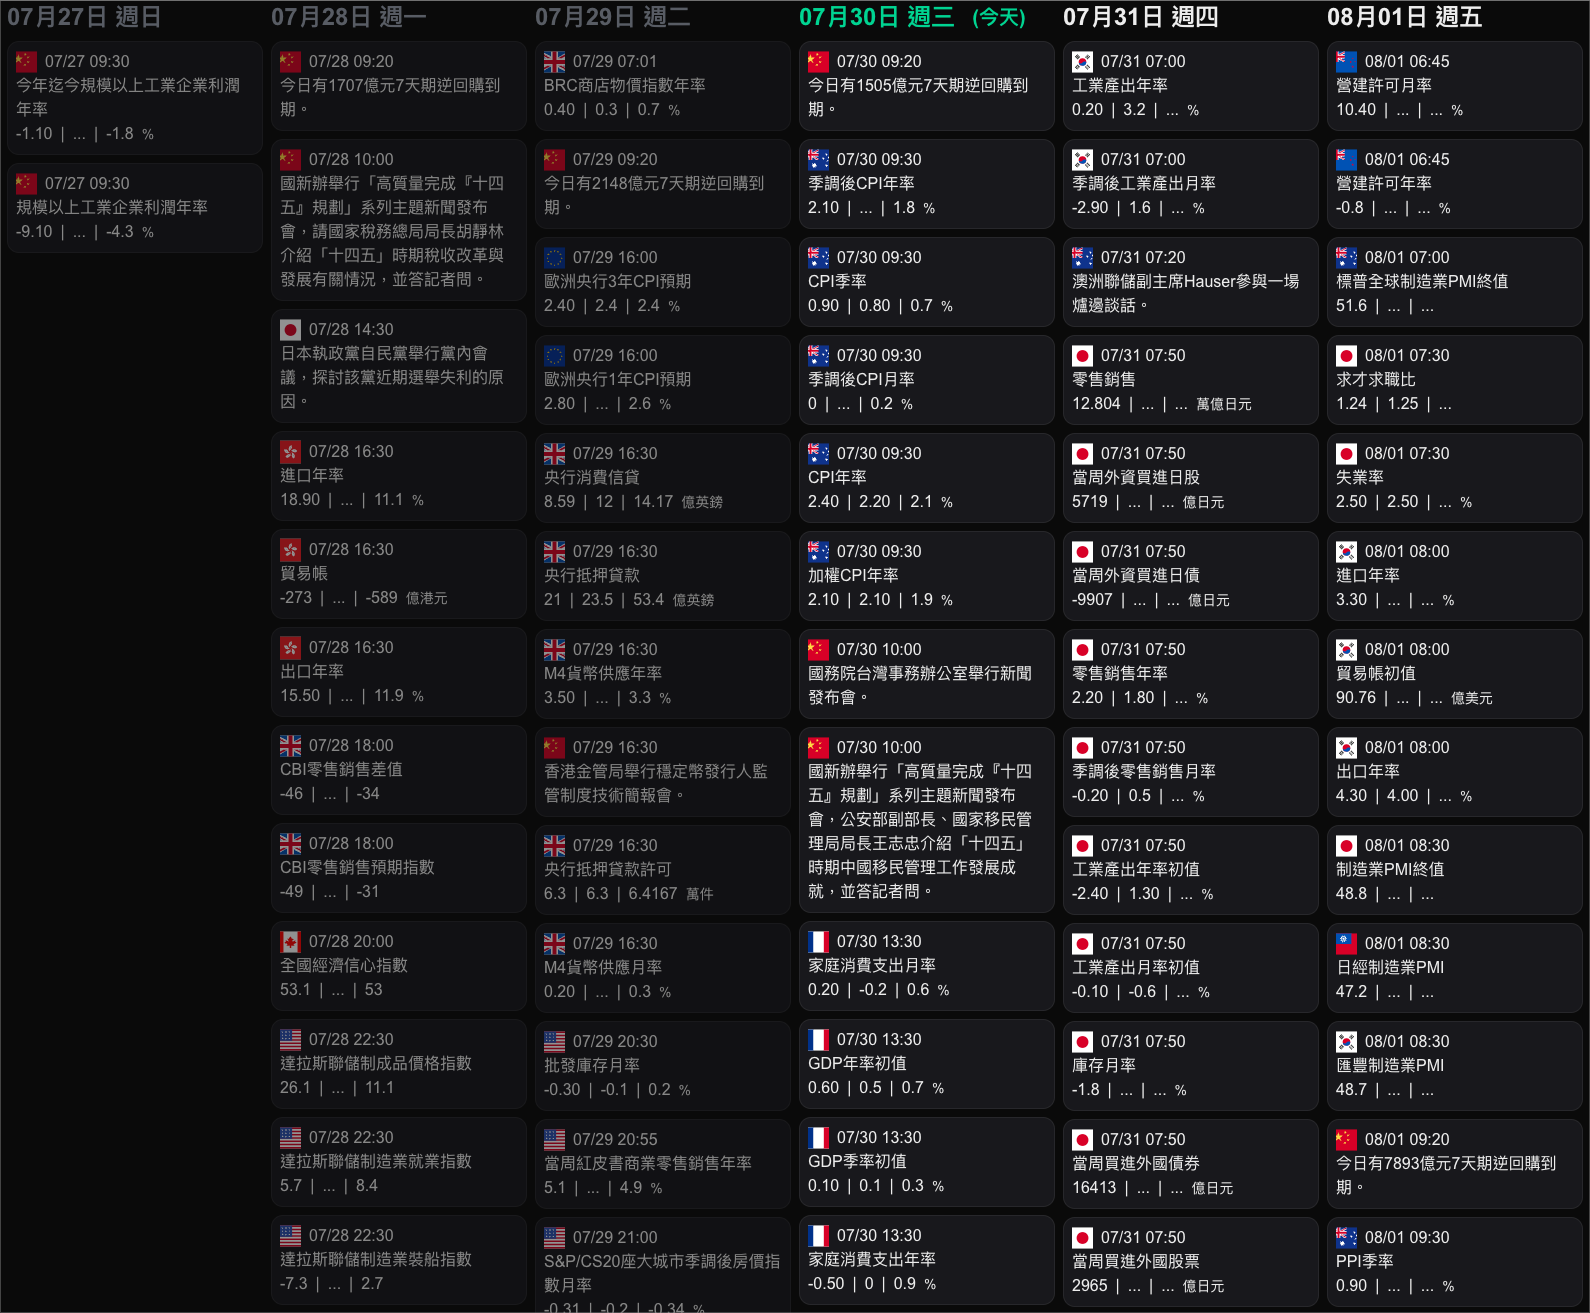
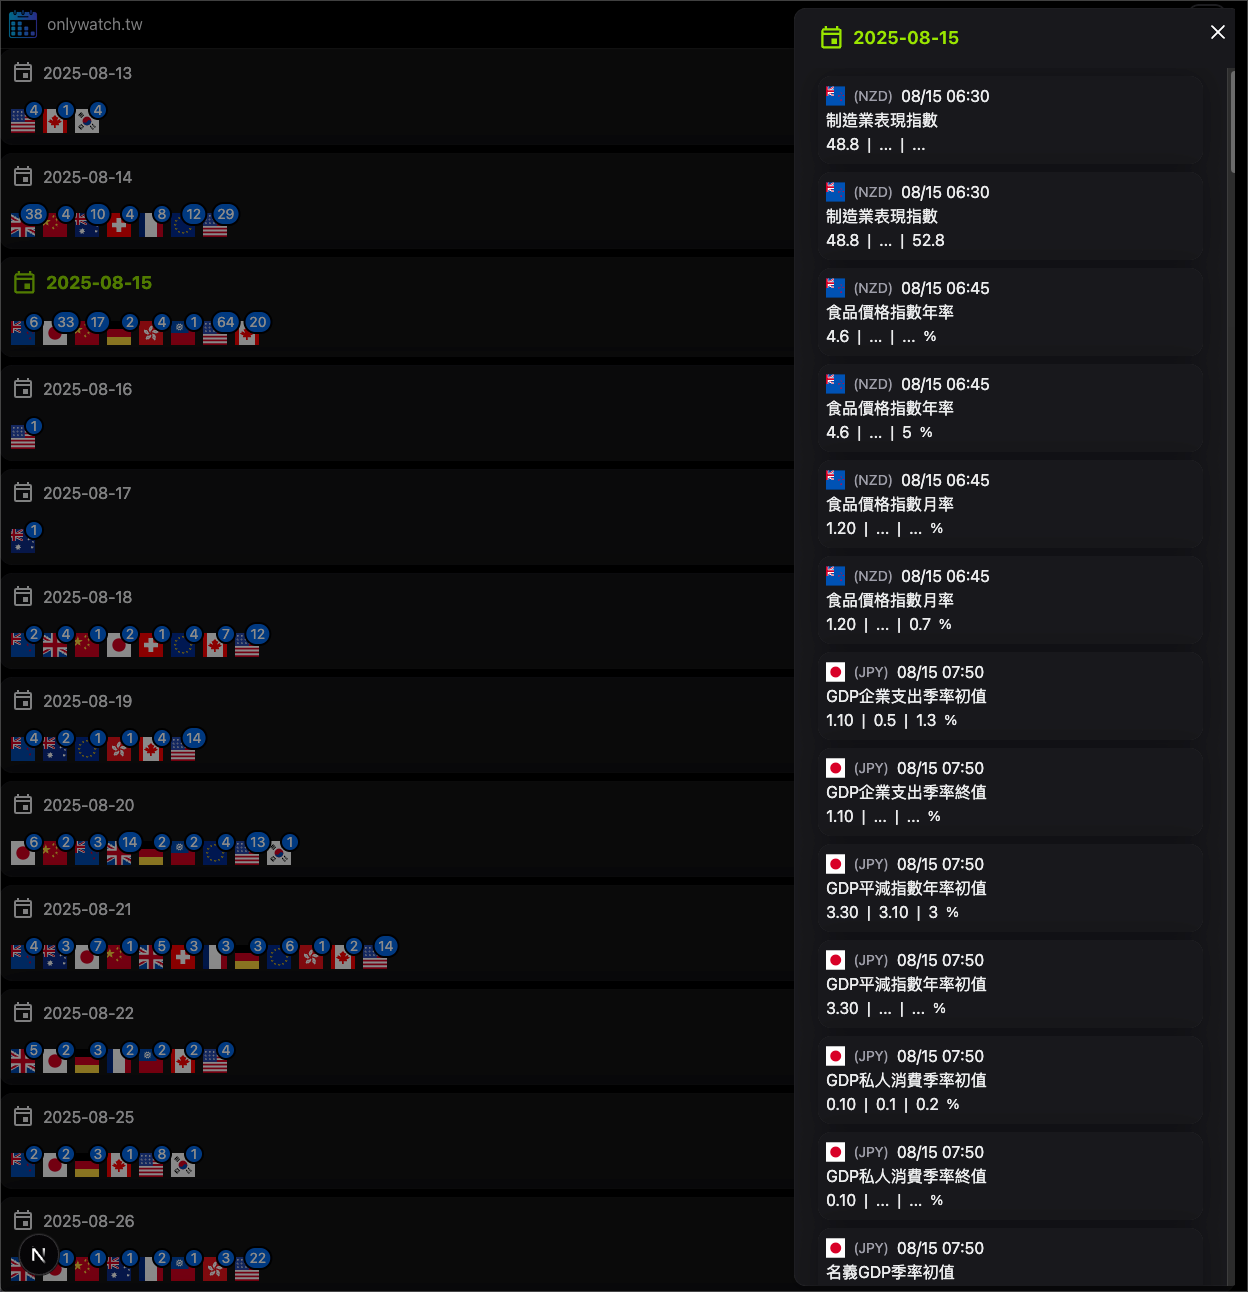
feat!: redesign "/calendar/page" for better phone experience
- group the date cards by country to improve the browsing experience
- all events for that date will be expanded in the drawer

---

WHY

i want to always show events from the past N days so that users can review what has happened, but i also want to quickly find the group of events for today

the original layout is not very suitable for mobile browsing, as long events rows that do not effectively guide users to the date they want to see

---

BREAKING CHANGE: the UI of app/calendar/page has been redesigned now

diff --git a/@apps/onlywatch.tw/src/features/jin10/components/DayCard.tsx b/@apps/onlywatch.tw/src/features/jin10/components/DayCard.tsx
@@ -1,0 +1,109 @@
+'use client'
+
+import { Badge } from '@heroui/badge'
+import { Card, CardBody, CardHeader } from '@heroui/card'
+import { Drawer, DrawerBody, DrawerContent, DrawerHeader } from '@heroui/drawer'
+import clsx from 'clsx'
+import { Fragment, useReducer } from 'react'
+import type { Tables } from '~/db/database.types'
+import { CountryFlag } from '~/features/jin10/components/CountryFlag'
+import { EventCard } from '~/features/jin10/components/EventCard'
+import { days } from '~/utils/days'
+
+export function DayCard(props: {
+  dayAt: string
+  value: Tables<'jin10_events'>[]
+  variant?: 'default' | 'today' | 'past' | 'upcoming' | 'holiday'
+}) {
+  const { variant = 'default' } = props
+  const [isDrawerOpen, toggleDrawerOpen] = useReducer((prev) => !prev, false)
+  const countryEventCounts: Record<string, number> = {}
+
+  for (const event of props.value) {
+    if (event.country) {
+      countryEventCounts[event.country] =
+        (countryEventCounts[event.country] || 0) + 1
+    }
+  }
+
+  const date = (
+    <div
+      className={clsx([
+        'flex flex-row items-center gap-2',
+        variant === 'today' && [
+          'text-lg font-bold text-lime-500',
+          'dark:text-lime-400',
+        ],
+        variant === 'holiday' && ['text-blue-400'],
+      ])}
+    >
+      <div className='icon-[mdi--calendar-outline]'></div>
+      <div>
+        {props.dayAt} ({days(props.dayAt).format('ddd')})
+      </div>
+    </div>
+  )
+
+  return (
+    <Fragment>
+      <Card
+        className={clsx([
+          'w-full cursor-pointer',
+          variant === 'past' && ['opacity-50'],
+        ])}
+        isPressable
+        onPress={toggleDrawerOpen}
+      >
+        <CardHeader>{date}</CardHeader>
+        <CardBody>
+          <div className='flex flex-row gap-2'>
+            {Object.entries(countryEventCounts).map(
+              ([countryCode, eventCount]) => (
+                <Badge
+                  key={countryCode}
+                  color='primary'
+                  content={eventCount}
+                >
+                  <CountryFlag country={countryCode} />
+                </Badge>
+              ),
+            )}
+          </div>
+        </CardBody>
+      </Card>
+      <Drawer
+        isOpen={isDrawerOpen}
+        placement='right'
+        onOpenChange={toggleDrawerOpen}
+        classNames={{
+          base: 'sm:m-2 rounded-medium',
+          closeButton: 'text-2xl text-gray-900 dark:text-white',
+        }}
+      >
+        <DrawerContent>
+          <DrawerHeader>{date}</DrawerHeader>
+          <DrawerBody>
+            <div className='flex flex-col gap-2'>
+              {props.value.map((event) => {
+                return (
+                  <EventCard
+                    key={event.id}
+                    title={event.display_title}
+                    publishAt={event.publish_at}
+                    country={event.country}
+                    numbers={[
+                      event.previous_number,
+                      event.consensus_number,
+                      event.actual_number,
+                    ]}
+                    unit={event.unit}
+                  />
+                )
+              })}
+            </div>
+          </DrawerBody>
+        </DrawerContent>
+      </Drawer>
+    </Fragment>
+  )
+}

diff --git a/@apps/onlywatch.tw/src/app/(main)/calendar/page.tsx b/@apps/onlywatch.tw/src/app/(main)/calendar/page.tsx
@@ -1,0 +1,44 @@
+import { DayCard } from '~/features/jin10/components/DayCard'
+import { findManyEvents } from '~/features/jin10/db/findManyEvents'
+import { days } from '~/utils/days'
+
+export const revalidate = 180
+
+export default async function Page() {
+  const FROM_DAYS = -1
+  const END_DAYS = 15
+
+  const events = await findManyEvents({
+    startOf: days().add(FROM_DAYS, 'days').startOf('days').toISOString(),
+    endOf: days()
+      .add(END_DAYS + 1, 'days')
+      .endOf('days')
+      .toISOString(),
+  })
+
+  return (
+    <div className='grid grid-cols-1 gap-2'>
+      {Object.entries(events.dataGroupedByDate || {}).map(
+        ([dayAt, dayEvents]) => {
+          const today = days().startOf('day')
+
+          return (
+            <DayCard
+              key={dayAt}
+              dayAt={dayAt}
+              value={dayEvents}
+              variant={
+                new Map([
+                  [days(dayAt).isBefore(today), 'past' as const],
+                  [days(dayAt).isAfter(today), 'upcoming' as const],
+                  [[0, 6].includes(days(dayAt).weekday()), 'holiday' as const],
+                  [today.format('YYYY-MM-DD') === dayAt, 'today' as const],
+                ]).get(true) || 'default'
+              }
+            />
+          )
+        },
+      )}
+    </div>
+  )
+}

diff --git a/@apps/onlywatch.tw/src/app/(main)/calendar/[dayAt]/page.tsx b/@apps/onlywatch.tw/src/app/(main)/calendar/[dayAt]/page.tsx
@@ -1,9 +1,7 @@
 import { range } from 'lodash'
-import Link from 'next/link'
 import { notFound } from 'next/navigation'
 import z from 'zod'
-import { Button } from '~/components/Button'
-import { EventManyCards } from '~/features/jin10/components/EventManyCards'
+import { DayCard } from '~/features/jin10/components/DayCard'
 import { findManyEvents } from '~/features/jin10/db/findManyEvents'
 import { days } from '~/utils/days'
 
@@ -48,20 +46,12 @@ export default async function Page({
     endOf: days(paramsData.dayAt).add(1, 'days').endOf('days').toISOString(),
   })
 
-  return (
-    <div className='flex flex-col gap-2 px-2 pb-2 md:flex-row md:gap-2'>
-      <EventManyCards
-        key={paramsData.dayAt}
-        dayAt={paramsData.dayAt}
-        value={events.dataGroupedByDate?.[paramsData.dayAt] || []}
-      />
+  const dayEvents = events.dataGroupedByDate?.[paramsData.dayAt] || []
 
-      <Link
-        href='/calender'
-        className='flex md:hidden'
-      >
-        <Button className='w-full'>查看完整日曆</Button>
-      </Link>
-    </div>
+  return (
+    <DayCard
+      dayAt={paramsData.dayAt}
+      value={dayEvents}
+    />
   )
 }

diff --git a/@apps/onlywatch.tw/src/app/layout.tsx b/@apps/onlywatch.tw/src/app/layout.tsx
@@ -5,6 +5,7 @@ import './globals.css'
 import { GoogleAnalytics } from '@next/third-parties/google'
 import { envVars } from '~/envVars'
 import { Providers } from '~/app/Providers'
+import { NuqsAdapter } from 'nuqs/adapters/next'
 
 const fontSans = Noto_Sans({
   variable: '--font-sans',
@@ -78,7 +79,9 @@ export default function RootLayout({
     >
       <GoogleAnalytics gaId={`G-${envVars.NEXT_PUBLIC_GA_ID}`} />
       <body className={`${fontClassNames}`}>
-        <Providers>{children}</Providers>
+        <NuqsAdapter>
+          <Providers>{children}</Providers>
+        </NuqsAdapter>
       </body>
     </html>
   )
